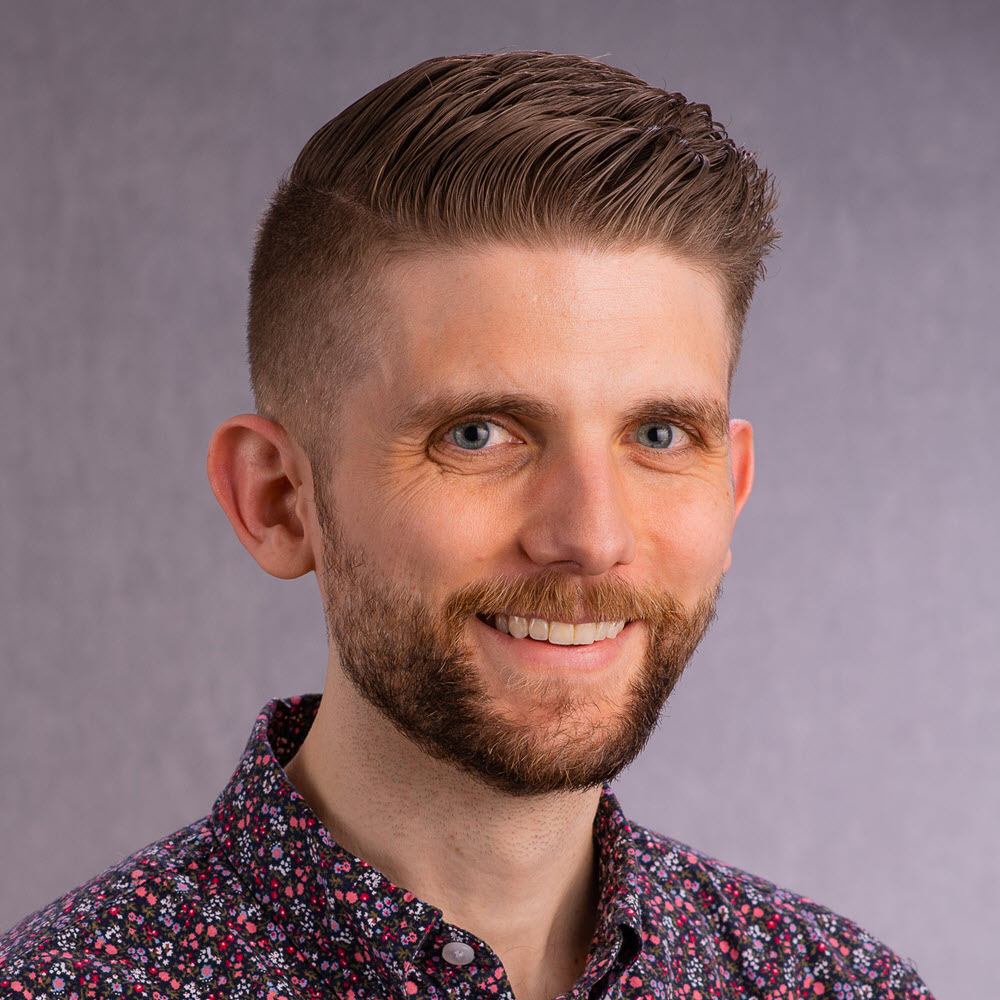
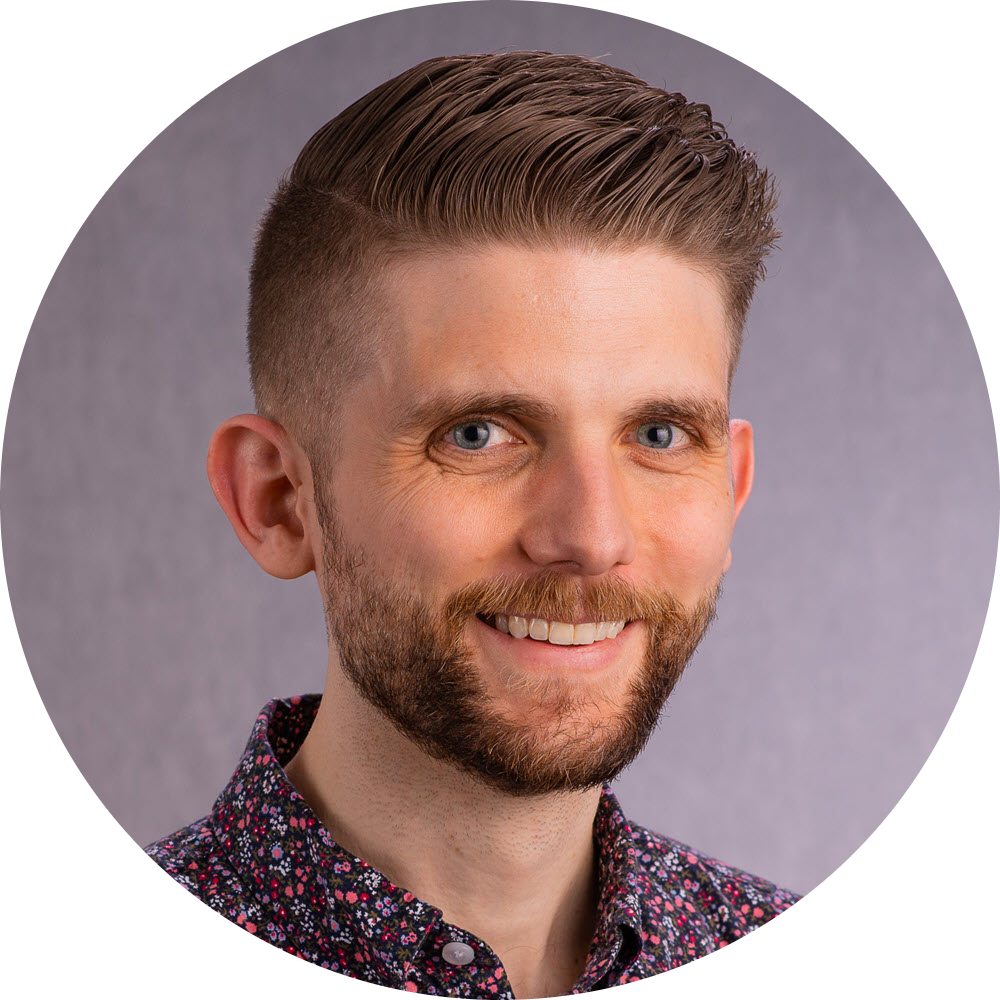
Updates to headshot and summary

diff --git a/_site/home.html b/_site/home.html
@@ -167,7 +167,7 @@ gtag('config', 'G-GR6BB3VRLC', { 'anonymize_ip': true});
 </div>
 </div>
 </div>
-<p>I’m an analytics-driven problem solver building a second career in business intelligence after a 10-year tenure as a manufacturing process engineer. I am passionate about building consensus with data, inside and outside of the workplace.</p>
+<p>I’m an analytics-driven problem solver building a second career in business intelligence after a 10-year tenure as a manufacturing process engineer. I am passionate about building consensus with data.</p>
 <section id="skills" class="level2">
 <h2 class="anchored" data-anchor-id="skills">Skills</h2>
 <div class="callout callout-style-default callout-note callout-titled">
